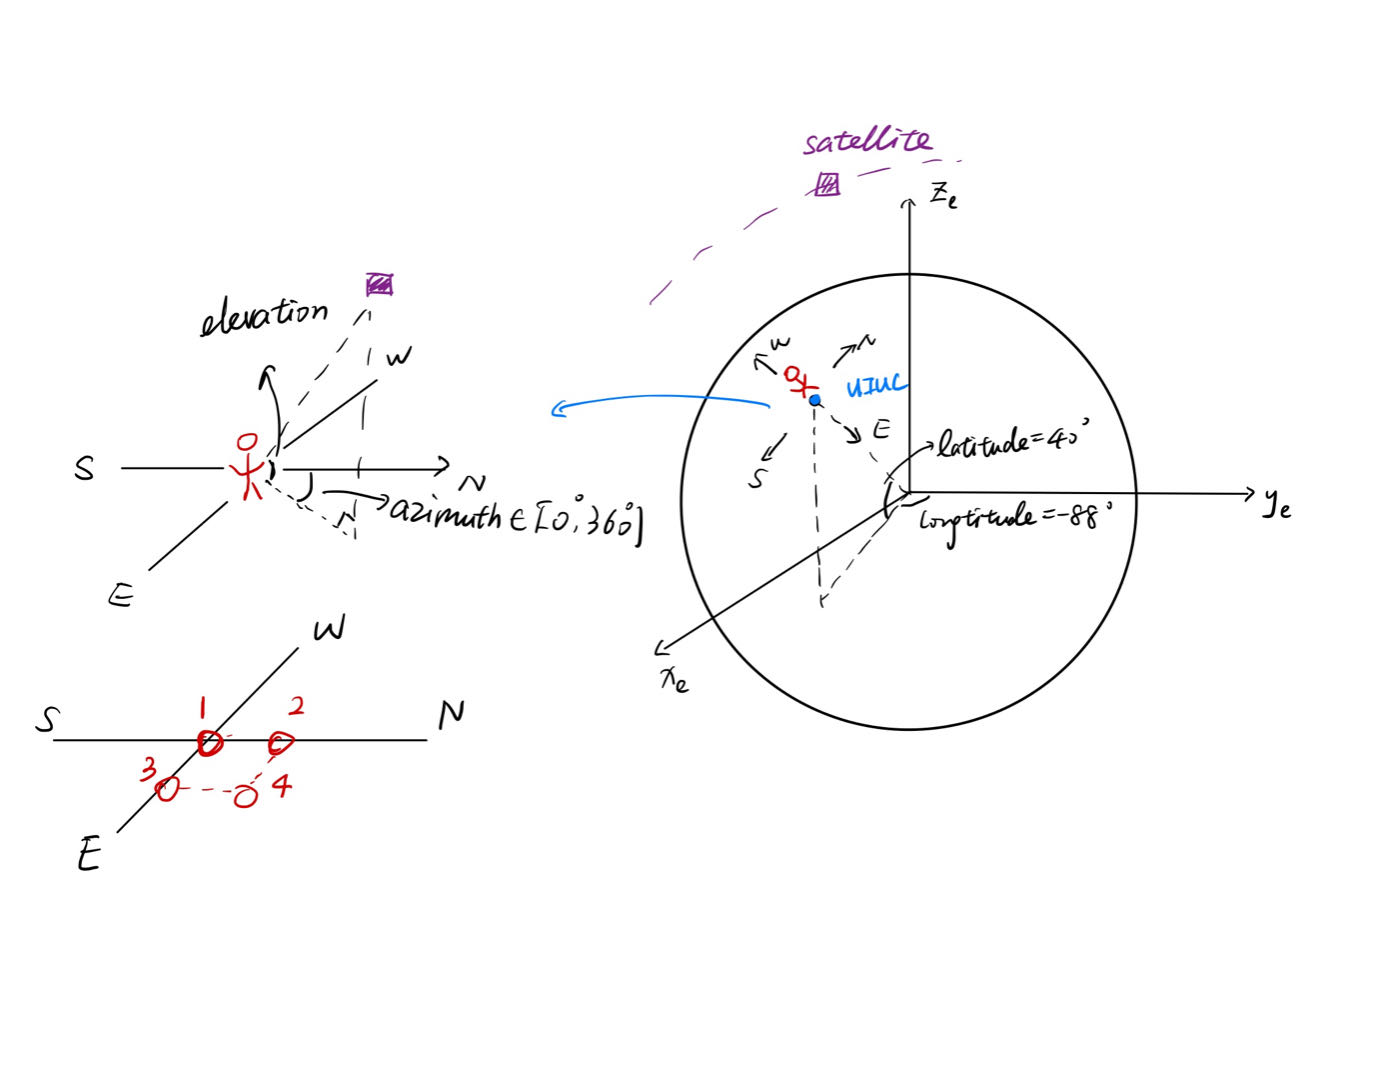
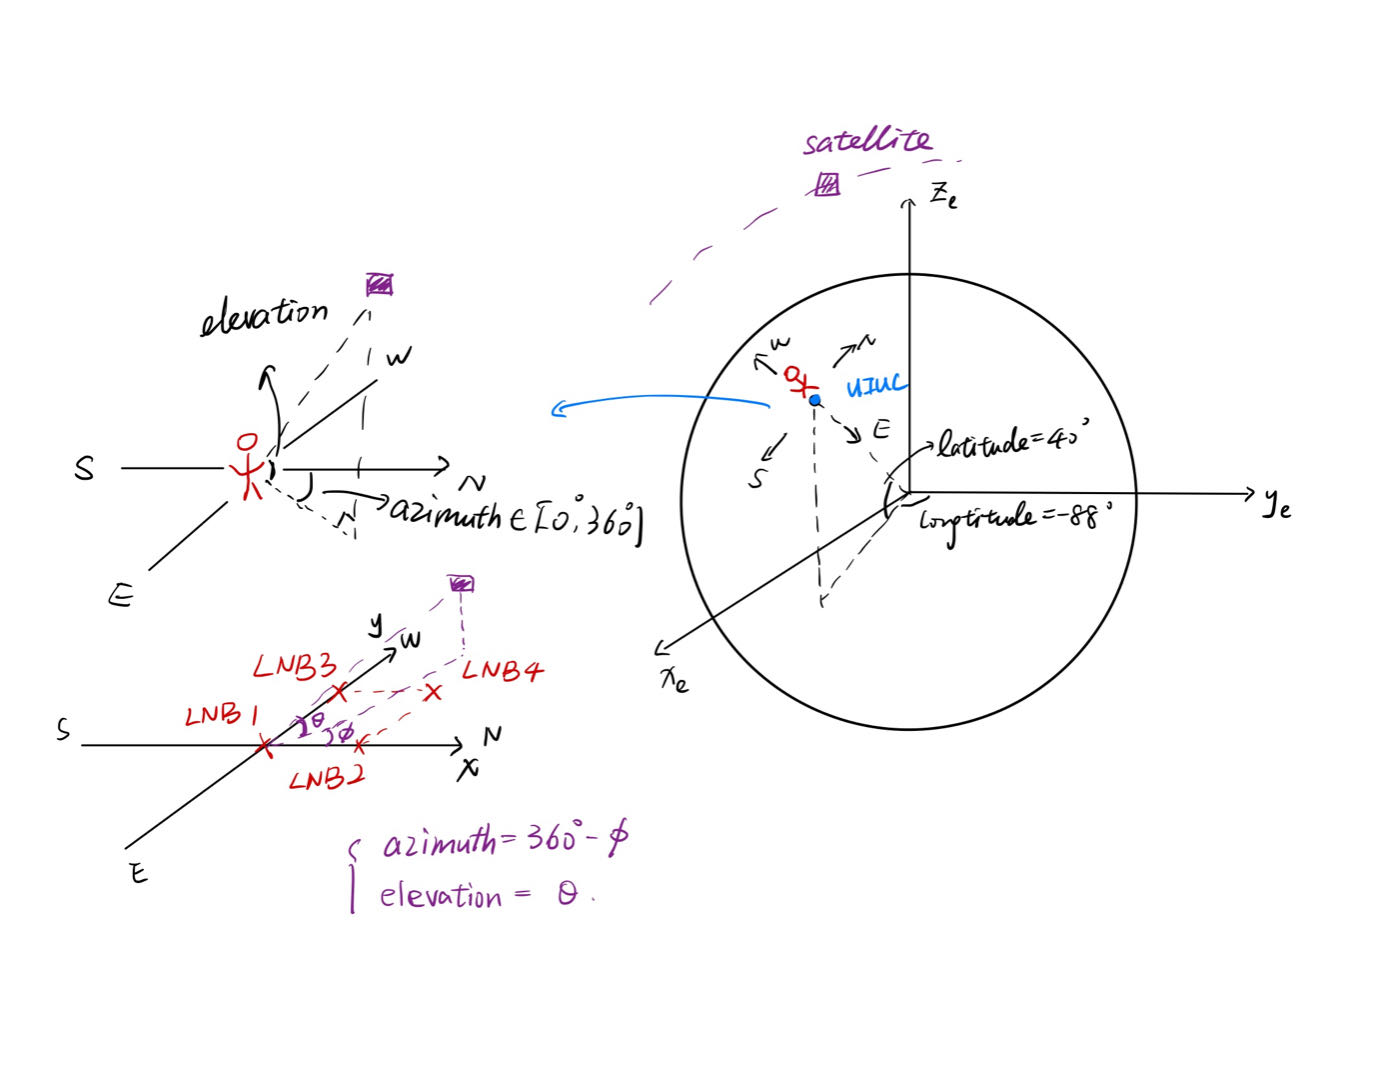
update figure
Former-commit-id: 2ad66db9328ae74b1e8bacf3defce6ed81ef1290 [formerly e9ebc99f0442c025eab8f99f88472f3509073e82]
Former-commit-id: 3bf80b22d98f3afb4d5b70208d41fb4f034aa0ca

diff --git a/AoA_Sim/AoA.m b/AoA_Sim/AoA.m
@@ -72,7 +72,8 @@ tmp = elevation>minElevation;
 visible_idx = tmp(:,:,1)&tmp(:,:,2)&tmp(:,:,3)&tmp(:,:,4);
 for idx = 1:num_sats
     if sum(visible_idx(idx, :)) == length(visible_idx(idx,:))
-        idx
+        sats(idx).Name
+        break;
     end
 end
 
